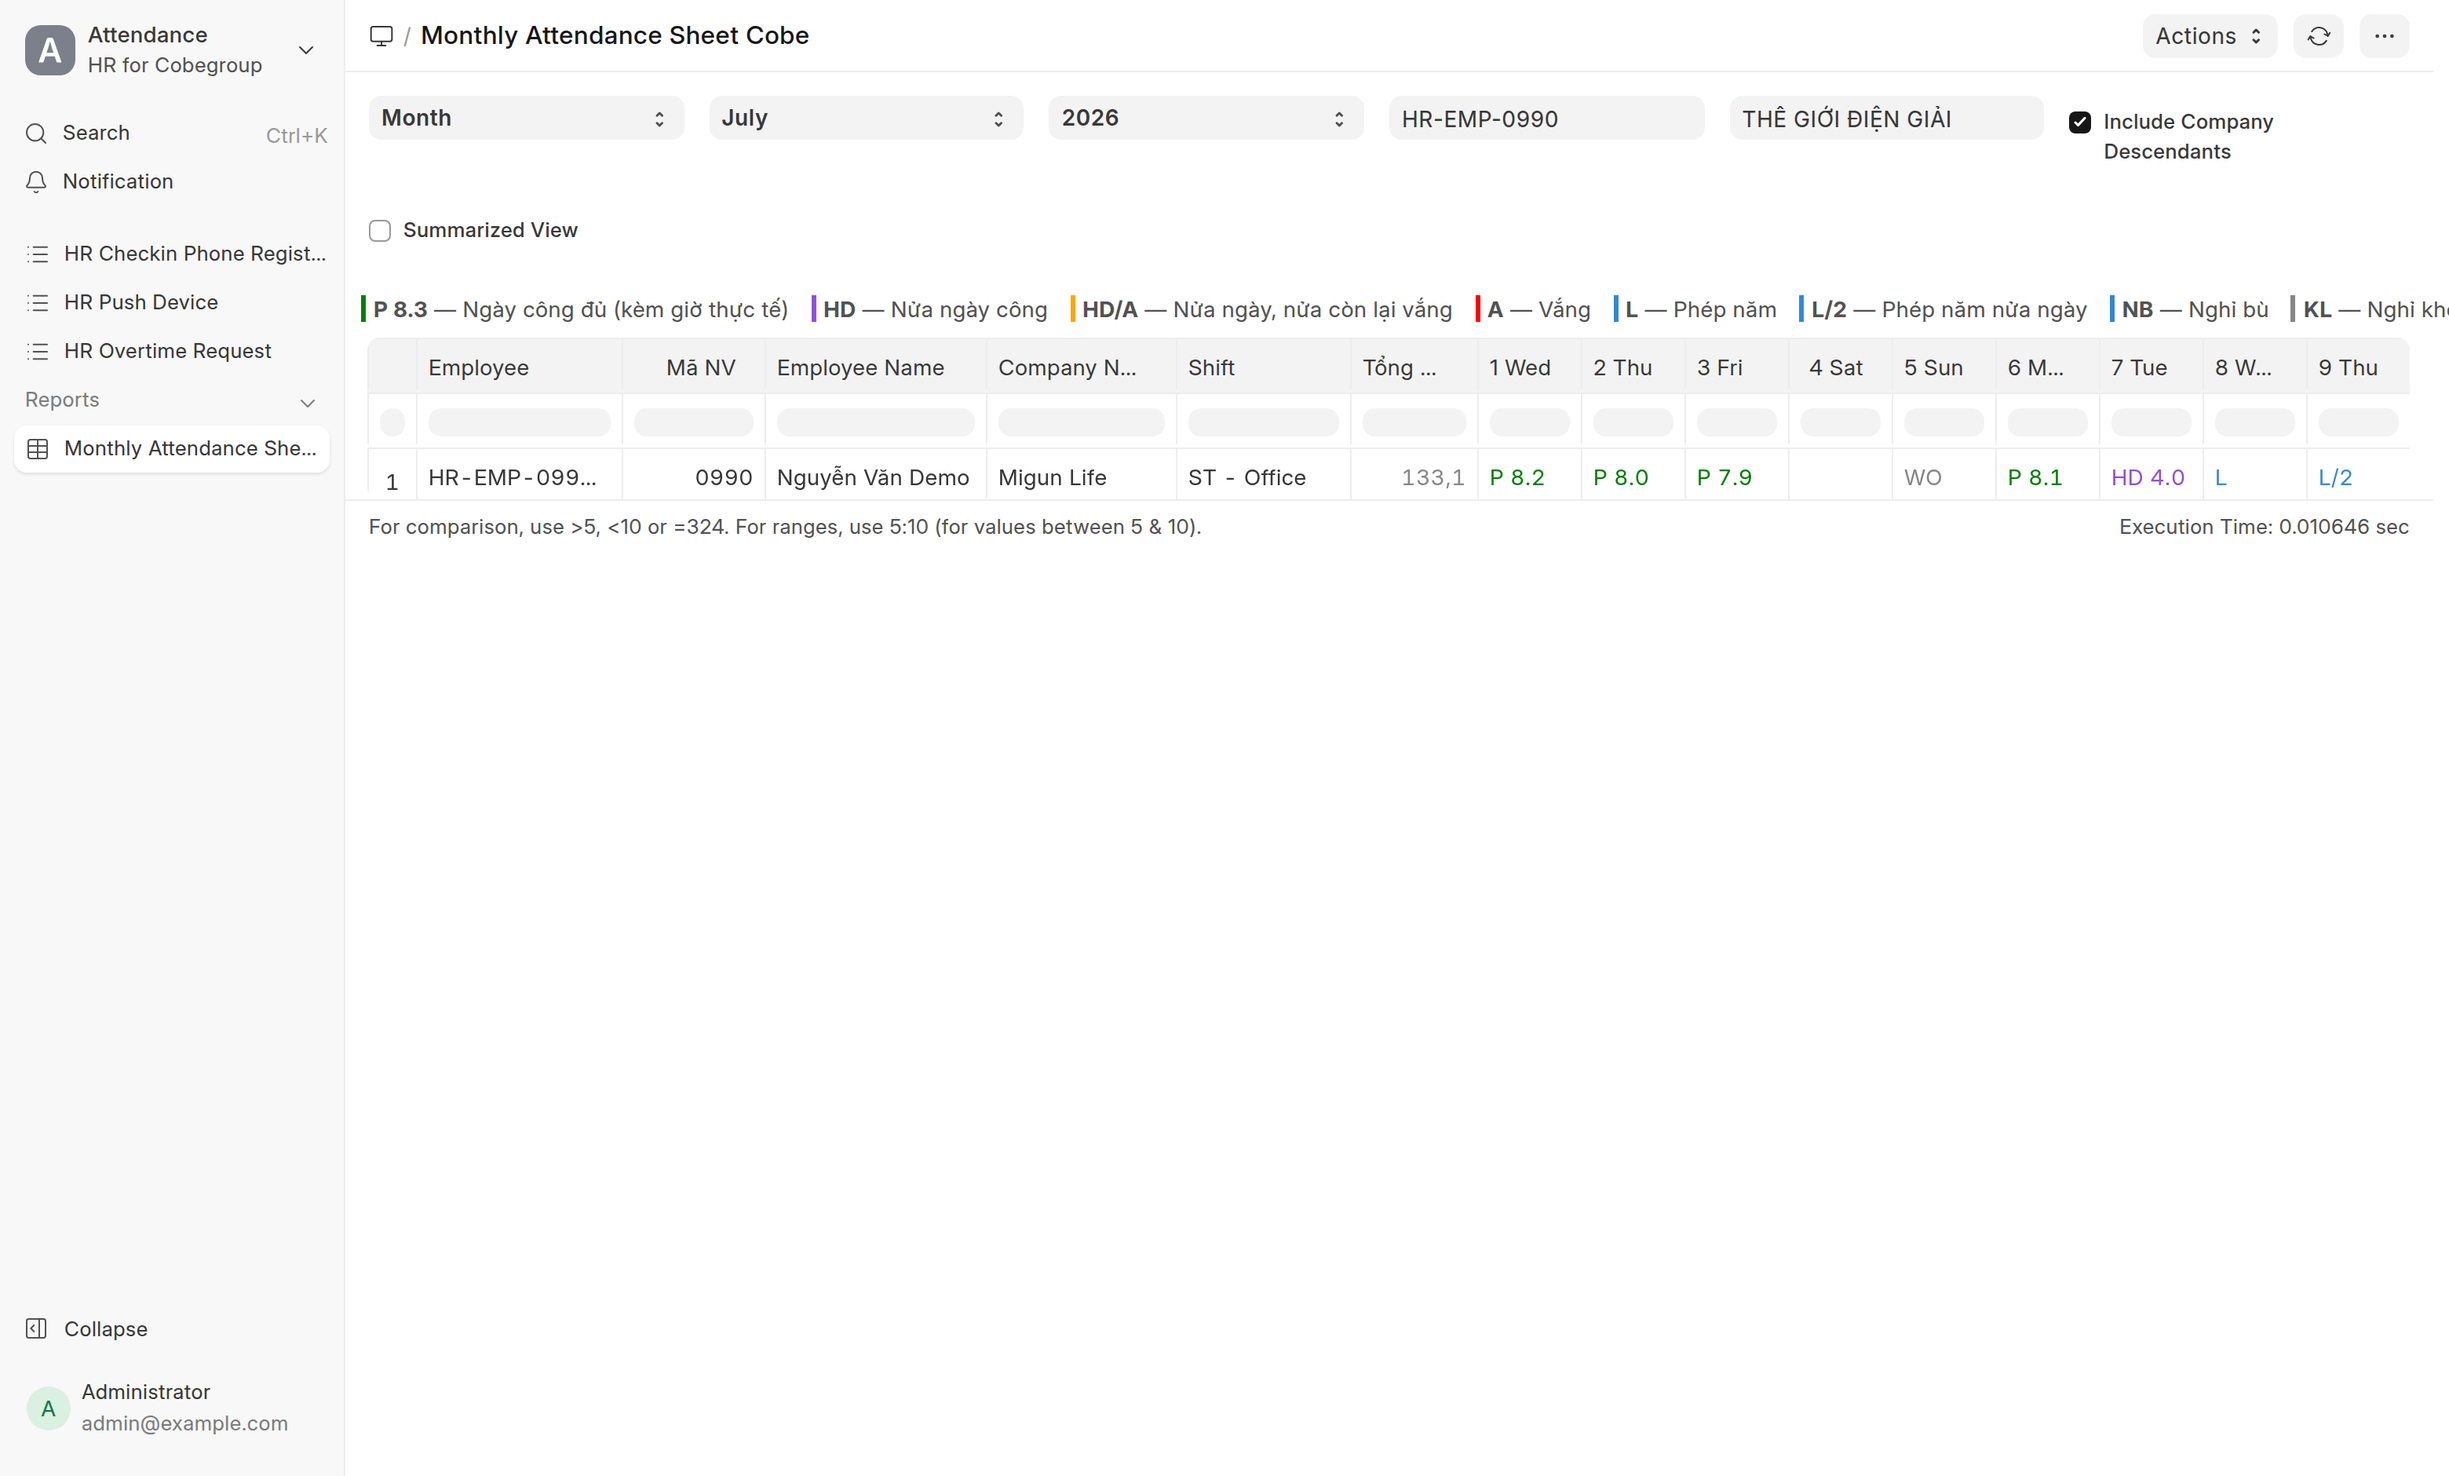
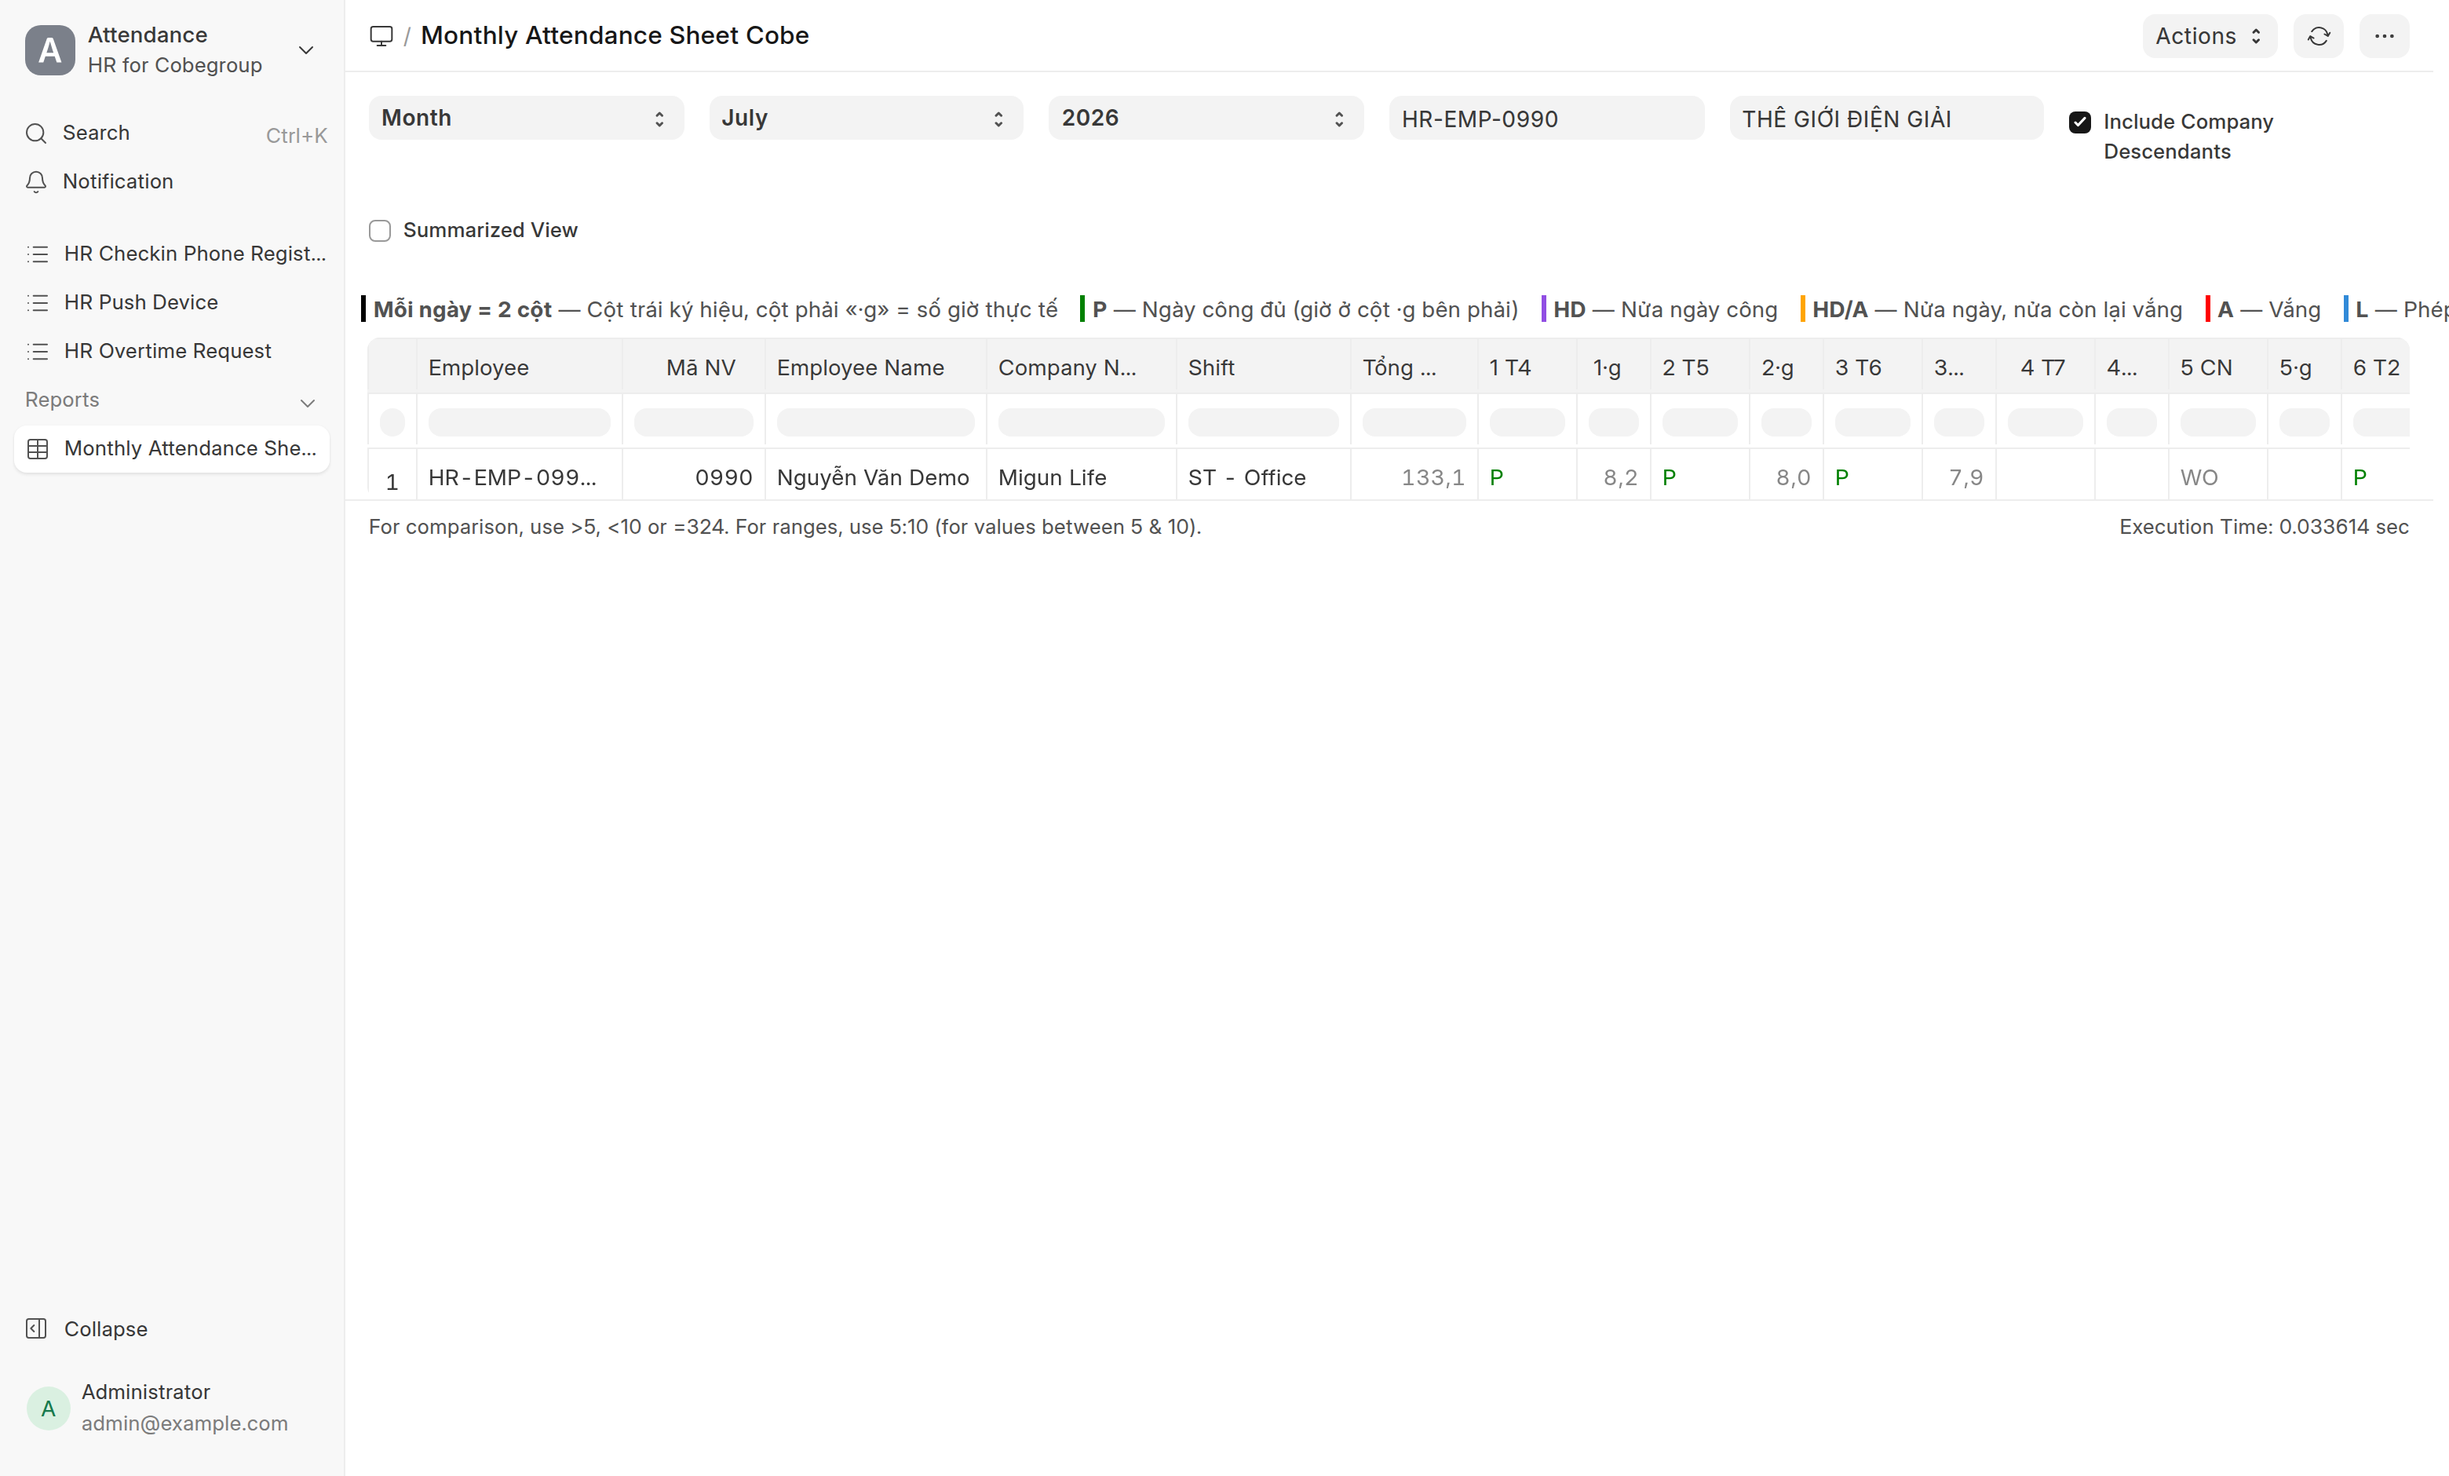
docs(hr): bảng công Cobe mỗi ngày tách 2 cột (ký hiệu + số giờ), ảnh mới

diff --git a/users/Desk-HR-BaoCao.md b/users/Desk-HR-BaoCao.md
@@ -20,7 +20,7 @@ nav_order: 6
 
 | Báo cáo | Cho biết |
 |---|---|
-| **[Monthly Attendance Sheet **Cobe**](Desk-HR-BangCongThang.html)** *(dùng bản này)* | Bảng công **cả tháng** từng nhân viên, thêm **Mã NV · Công ty trực thuộc · Tổng giờ** và **giờ thực tế** trong ô (`P 8.3`), ký hiệu theo loại phép (L/L2/NB/KL/CĐ/BH/WFH/H/WO). **Bỏ trống Company = mọi công ty.** → **[Hướng dẫn chi tiết](Desk-HR-BangCongThang.html)** |
+| **[Monthly Attendance Sheet **Cobe**](Desk-HR-BangCongThang.html)** *(dùng bản này)* | Bảng công **cả tháng** từng nhân viên, thêm **Mã NV · Công ty trực thuộc · Tổng giờ**; **mỗi ngày tách 2 cột** (ký hiệu + **số giờ** riêng, xuất Excel cộng được), ký hiệu theo loại phép (L/L2/NB/KL/CĐ/BH/WFH/H/WO). **Bỏ trống Company = mọi công ty.** → **[Hướng dẫn chi tiết](Desk-HR-BangCongThang.html)** |
 | Monthly Attendance Sheet *(bản gốc HRMS)* | Bản đơn giản: mỗi ngày **P / A / HD / L / WFH / H / WO**, bắt buộc chọn company, là "prepared report". Ưu tiên dùng **bản Cobe** ở trên. |
 | **Shift Attendance** | Chấm công **theo ca** (giờ vào/ra thực tế vs ca), phát hiện đi trễ/về sớm. |
 | **Employees working on a holiday** | Ai **đi làm vào ngày lễ** (để tính bù/OT). |
